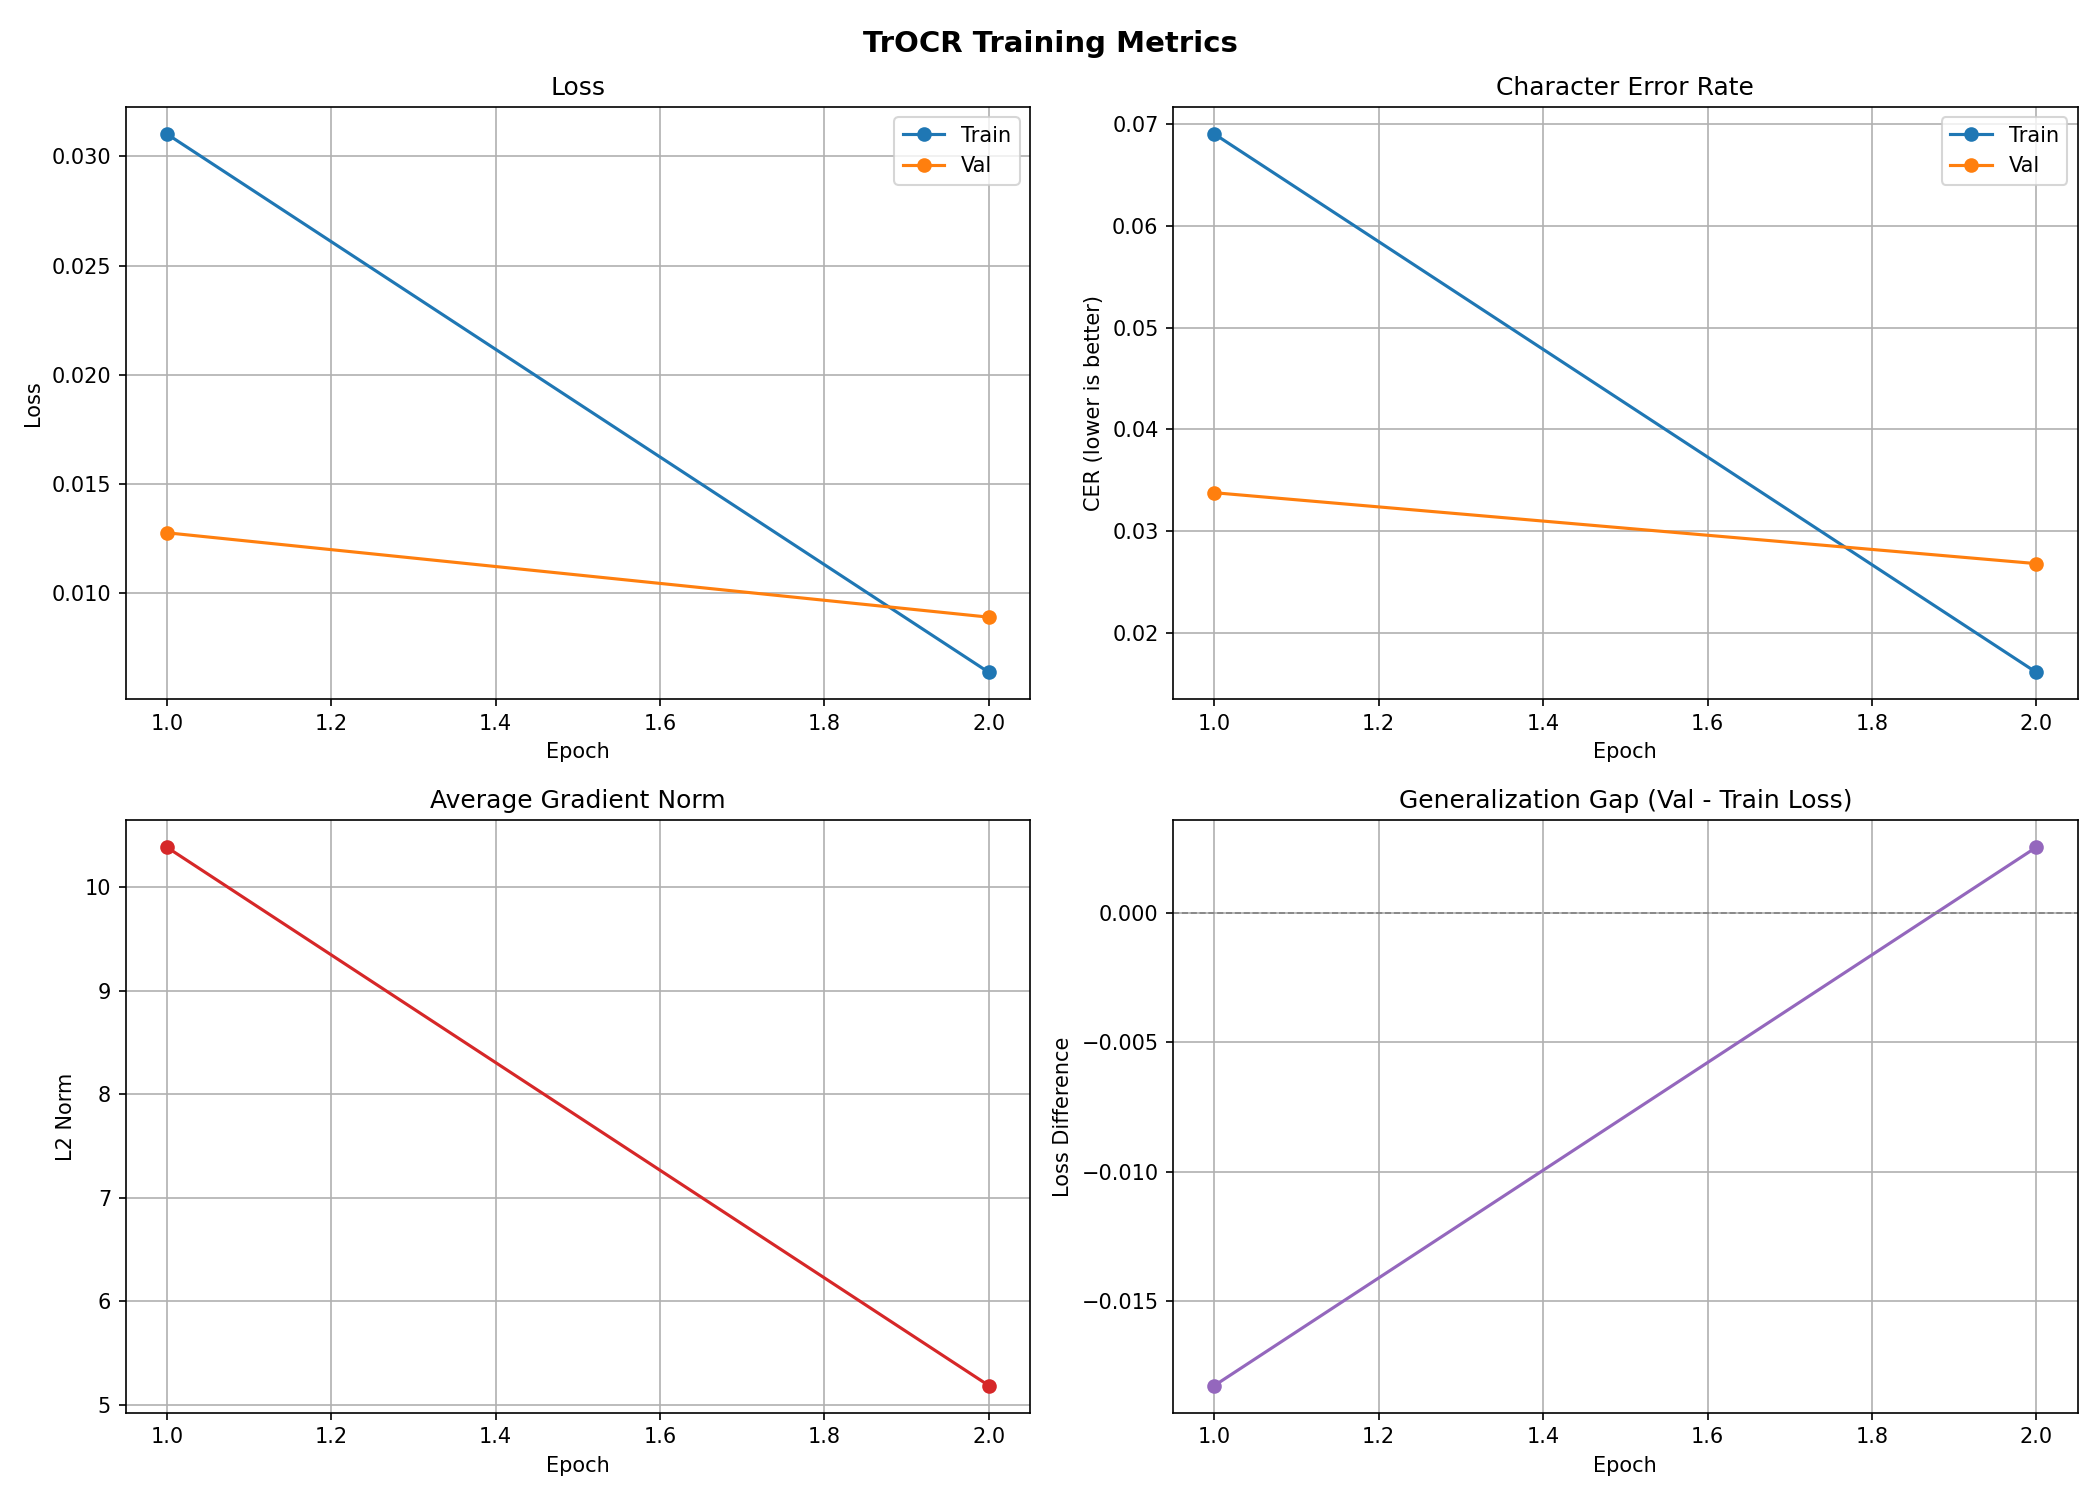
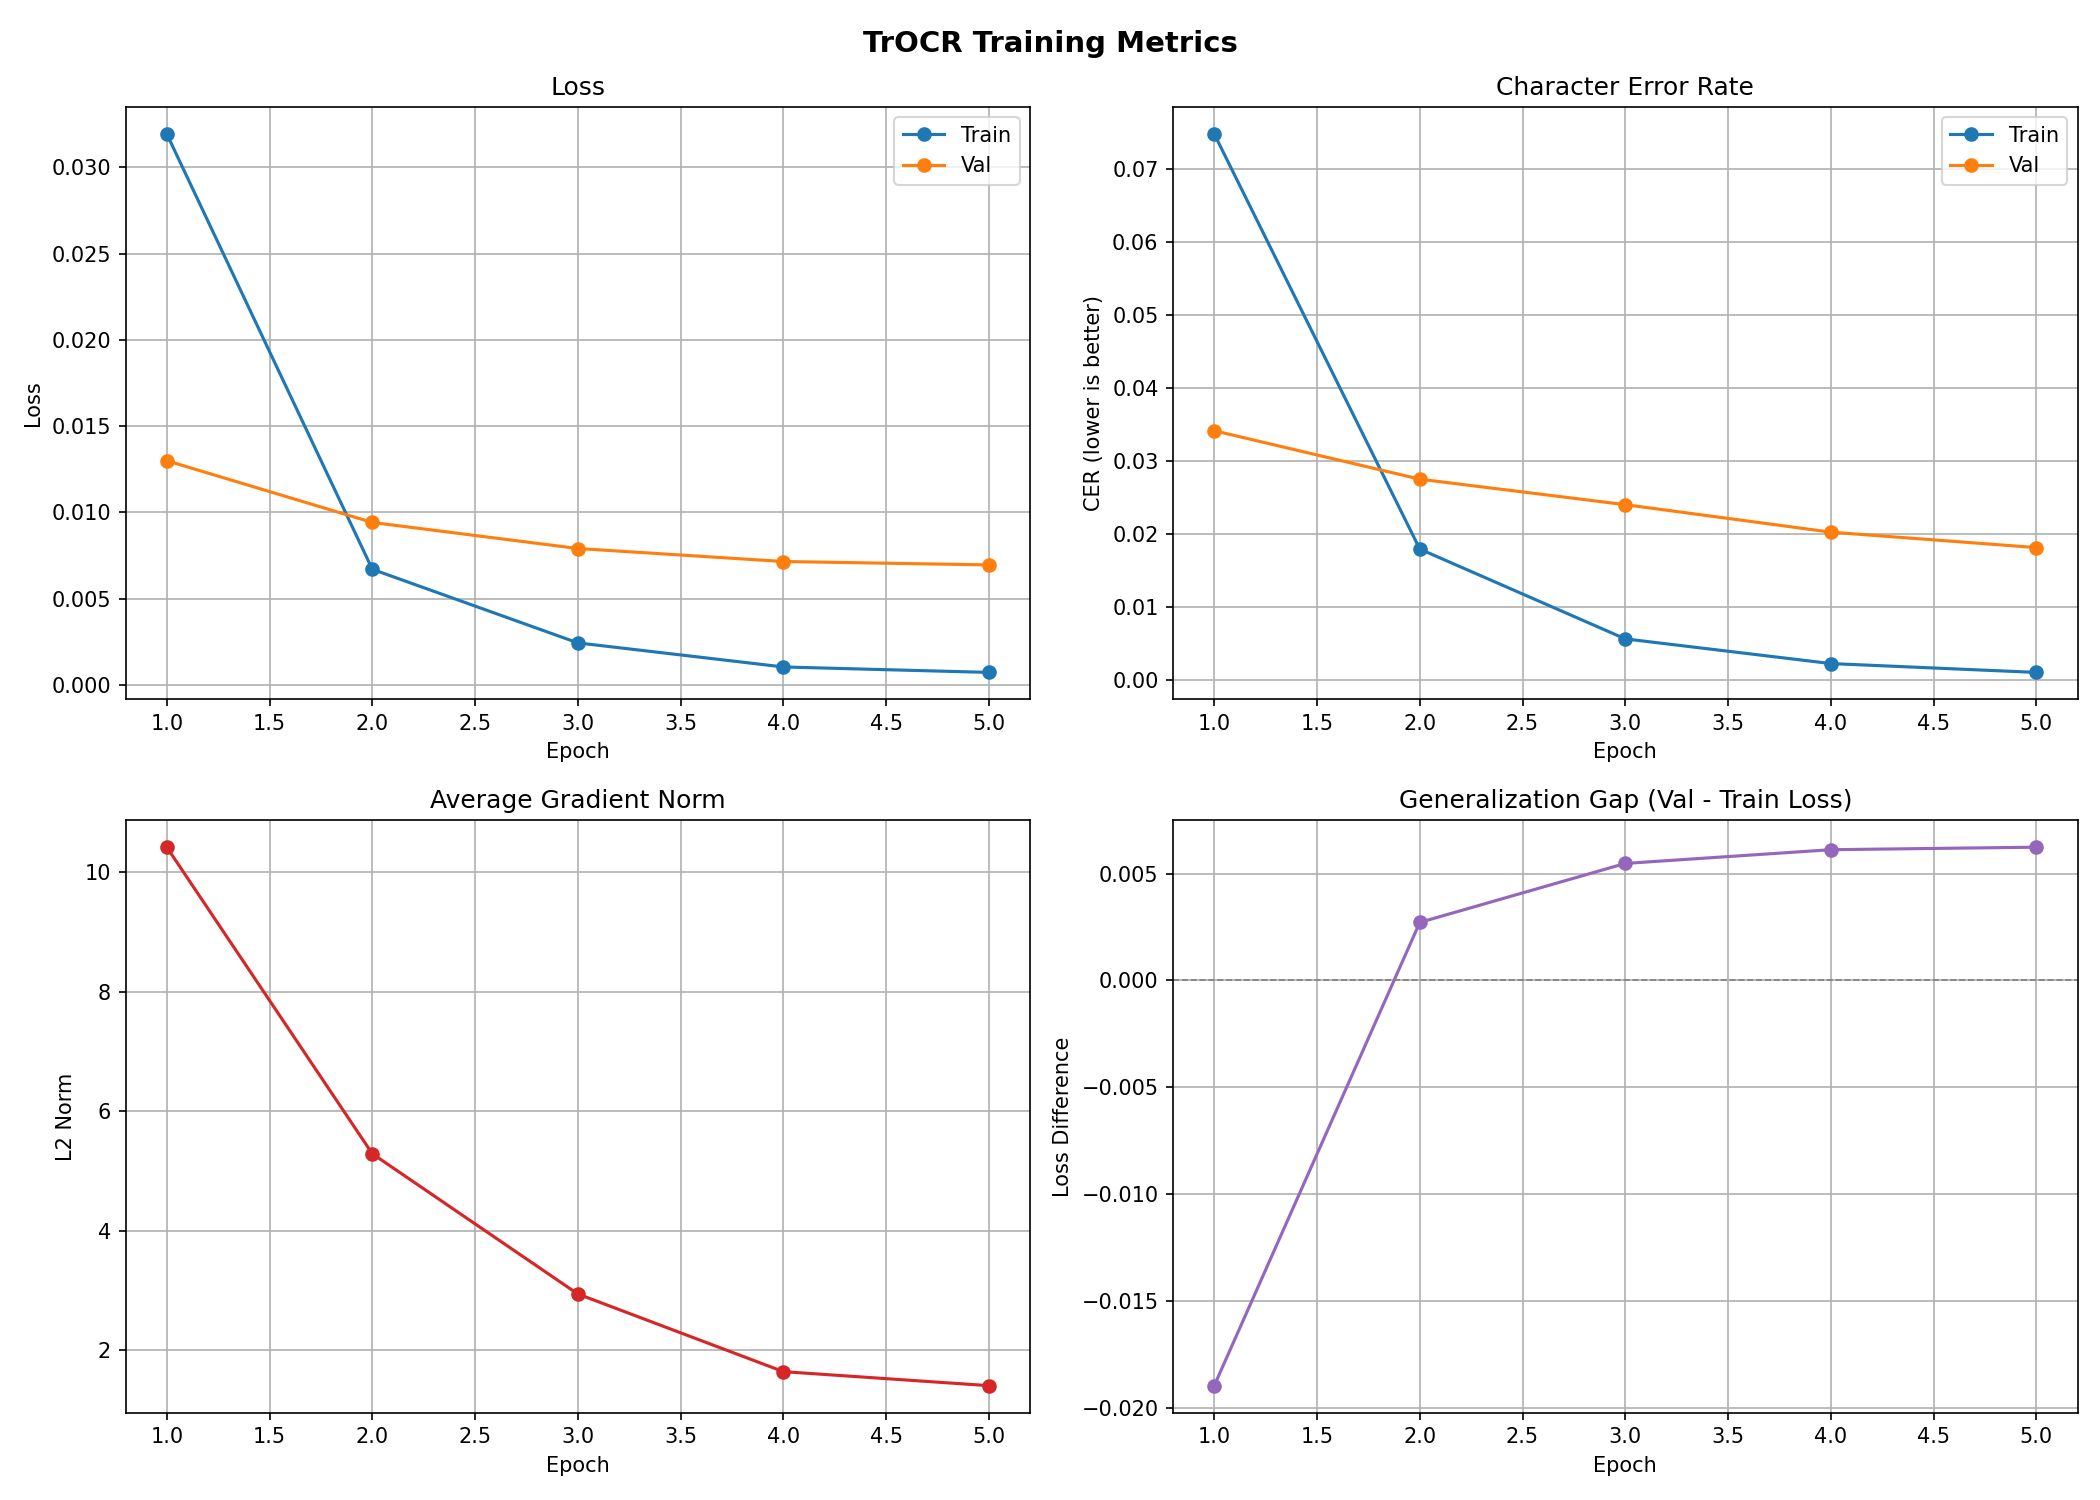
updated ocr run

diff --git a/src/modeling/constants.py b/src/modeling/constants.py
@@ -9,6 +9,6 @@ UNK_TOKEN = "<unk>"
 END_TOKEN = "<end>"
 
 # Modeling Constants
-EPOCHS = 2
+EPOCHS = 5
 BATCH_SIZE = 16
 LR = 1e-3
